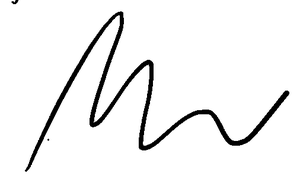
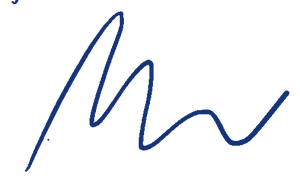
Blue ink signature, remove Verify from email tab, fix Find Email sizing, safer company name stripping

Changed region(s): [[0.09, 0.0546, 0.99, 0.929], [0.03, 0.0, 0.06, 0.0273]]

diff --git a/src/app/page.tsx b/src/app/page.tsx
@@ -68,9 +68,7 @@ function cleanCompanyName(name: string): string {
   const words = clean.split(/\s+/);
   if (words.length >= 2) {
     const productSuffixes = [
-      "Skis", "Ski", "Cycles", "Bikes", "Vehicles", "Motors", "Acoustics",
-      "Amplifiers", "Technologies", "Systems", "Solutions", "Industries",
-      "Products", "Services", "Associates", "Partners", "Group",
+      "Skis", "Ski", "Cycles", "Bikes", "Vehicles", "Motors",
     ];
     const lastWord = words[words.length - 1];
     if (productSuffixes.some(s => s.toLowerCase() === lastWord.toLowerCase())) {
@@ -1302,16 +1300,6 @@ export default function HomePage() {
                                                             </div>
                                                             <div className="text-xs text-sky-600 font-medium">{ct.email}</div>
                                                           </button>
-                                                          <a
-                                                            href={`https://www.linkedin.com/search/results/people/?keywords=${encodeURIComponent(ct.contactname + " " + (expandedCompany || ""))}`}
-                                                            target="_blank"
-                                                            rel="noopener noreferrer"
-                                                            onClick={(e) => e.stopPropagation()}
-                                                            className="px-2 py-3 text-xs font-semibold rounded-lg bg-yellow-400 text-yellow-900 hover:bg-yellow-500 transition-colors whitespace-nowrap shrink-0"
-                                                            title="Verify this contact on LinkedIn"
-                                                          >
-                                                            Verify
-                                                          </a>
                                                         </div>
                                                       ))}
                                                     </div>
@@ -1321,8 +1309,8 @@ export default function HomePage() {
                                                       <label className="text-xs font-bold text-gray-300 uppercase tracking-wider block mb-1">No email</label>
                                                       {noEmailContacts.map((ct, i) => (
                                                         <div key={i} className="flex items-center justify-between px-4 py-2 rounded-lg">
-                                                          <div className="text-xs text-gray-400">{ct.contactname}{ct.title ? ` — ${ct.title}` : ""}</div>
-                                                          <button onClick={() => { setSelectedContactIdx(contacts.indexOf(ct)); findEmail(); }} disabled={findingEmail} className="px-2 py-1 text-xs font-semibold rounded bg-amber-500 text-white hover:bg-amber-600 disabled:opacity-50">{findingEmail ? "..." : "Find Email"}</button>
+                                                          <div className="text-xs text-gray-400 flex-1 min-w-0 mr-2">{ct.contactname}{ct.title ? ` — ${ct.title}` : ""}</div>
+                                                          <button onClick={() => { setSelectedContactIdx(contacts.indexOf(ct)); findEmail(); }} disabled={findingEmail} className="px-3 py-1.5 text-xs font-semibold rounded-lg bg-amber-500 text-white hover:bg-amber-600 disabled:opacity-50 whitespace-nowrap shrink-0 w-24 text-center">{findingEmail ? "..." : "Find Email"}</button>
                                                         </div>
                                                       ))}
                                                     </div>
